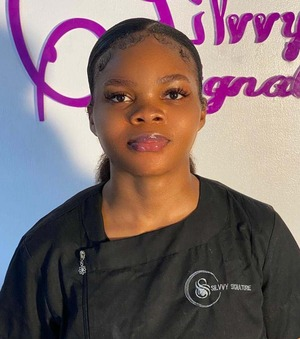
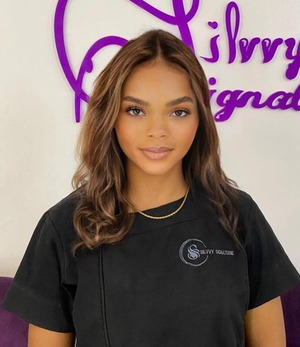
update

diff --git a/about.html b/about.html
@@ -474,7 +474,7 @@
                           <div class="img-box">
                             <div class="text-center">
                               <img
-                                src="img/team/team1.jpg"
+                                src="img/team/ceo.jpg"
                                 class="img-fluid"
                                 alt=""
                               />
@@ -648,7 +648,7 @@
                           </div>
                           <!-- Team header -->
                           <div class="p-4">
-                            <h5 class="team-header">Victoria</h5>
+                            <h5 class="team-header">Sylvester Victoria</h5>
                             <span>Media Manager</span>
                             <hr class="small-divider left" />
                             <p>
@@ -687,6 +687,44 @@
                           <div class="p-4">
                             <h5 class="team-header">Favour Asuk</h5>
                             <span>Software Developer</span>
+                            <hr class="small-divider left" />
+                            <p>
+                              Id fermentum augue, ut pellen tesque leo nas.
+                              Maecenas at arcu risus Donec com modo.
+                            </p>
+                          </div>
+                          <!--/ Team member 5 -->
+                        </div>
+                      </div>
+                      <!-- /col-lg-->
+                       <!-- Team member 6 -->
+                       <div class="col-lg-12">
+                        <div class="team-style1 bg-light">
+                          <!-- image and social icons -->
+                          <div class="img-box">
+                            <div class="text-center">
+                              <img
+                                src="img/team/team5.jpg"
+                                class="img-fluid"
+                                alt=""
+                              />
+                            </div>
+                            <ul class="social-icons text-center">
+                              <li>
+                                <a href="#"><i class="fab fa-facebook"></i></a>
+                              </li>
+                              <li>
+                                <a href="#"><i class="fab fa-twitter"></i></a>
+                              </li>
+                              <li>
+                                <a href="#"><i class="fab fa-linkedin"></i></a>
+                              </li>
+                            </ul>
+                          </div>
+                          <!-- Team header -->
+                          <div class="p-4">
+                            <h5 class="team-header">Eluwah Amarachi</h5>
+                            <span>Public Relations</span>
                             <hr class="small-divider left" />
                             <p>
                               Id fermentum augue, ut pellen tesque leo nas.

diff --git a/index.html b/index.html
@@ -397,10 +397,10 @@
                 </p>
               </div>
               <!--/ col-lg-->
-              <div class="col-lg-5 offset-lg-1 res-mt-5 my-auto overs">
+              <!-- <div class="col-lg-5 offset-lg-1 res-mt-5 my-auto overs">
                 <img src="img/studio image.jpg" class="img-fluid" alt="" />
                 <div class="overlays"></div>
-              </div>
+              </div> -->
               <!--/ col-lg-->
             </div>
             <!--/ row-->
@@ -738,7 +738,7 @@
               <a href="index.html">
                 <img
                   src="img/Silvvy_logo_pink.png"
-                  alt=""
+                  alt="silvvy Signature"
                   class="img-fluid center-block"
                 />
               </a>
@@ -768,3 +768,4 @@
     <script src="js/map.js"></script>
   </body>
 </html>
+ 
